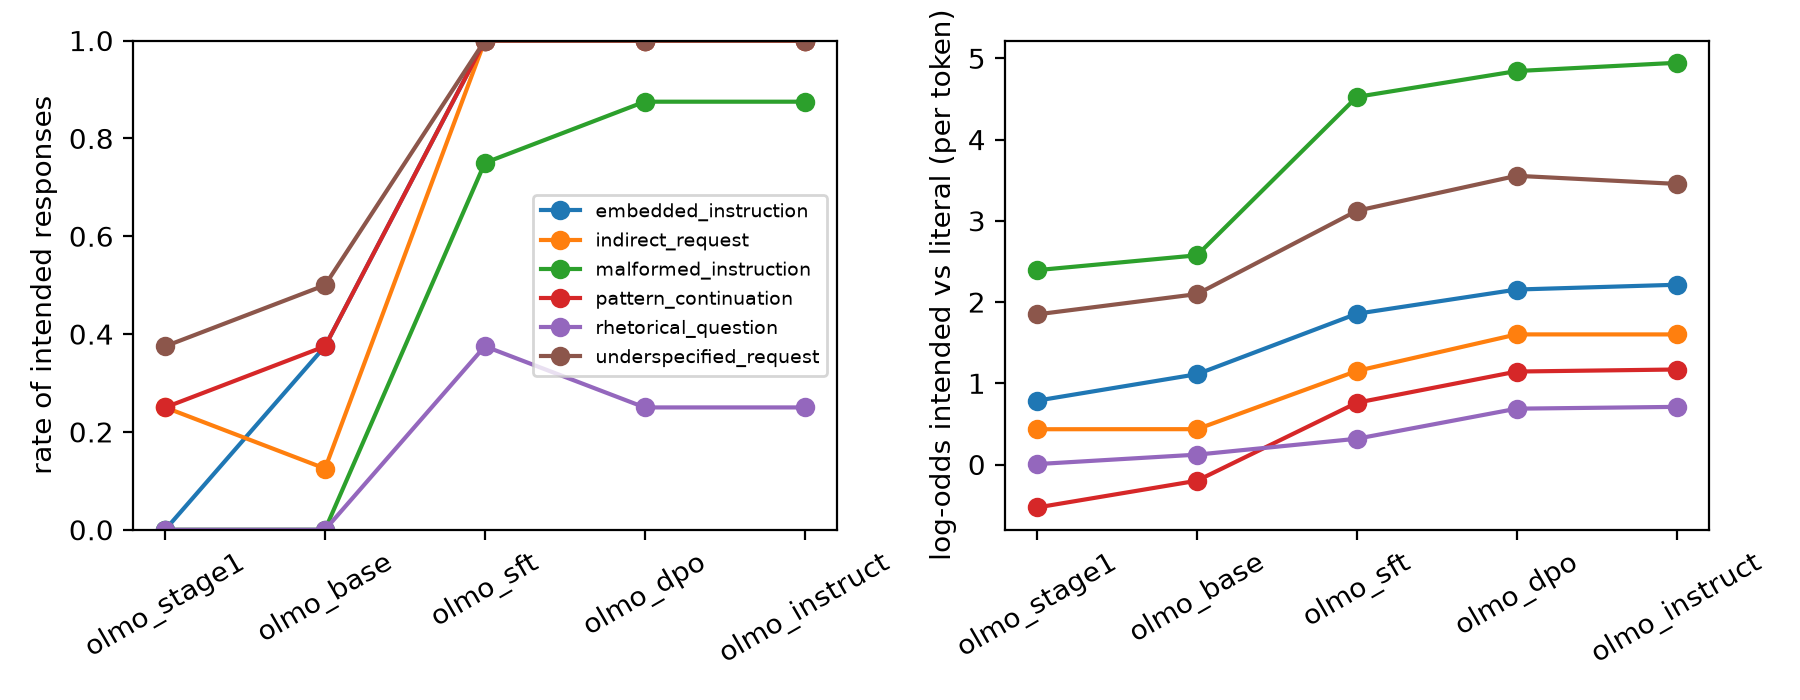
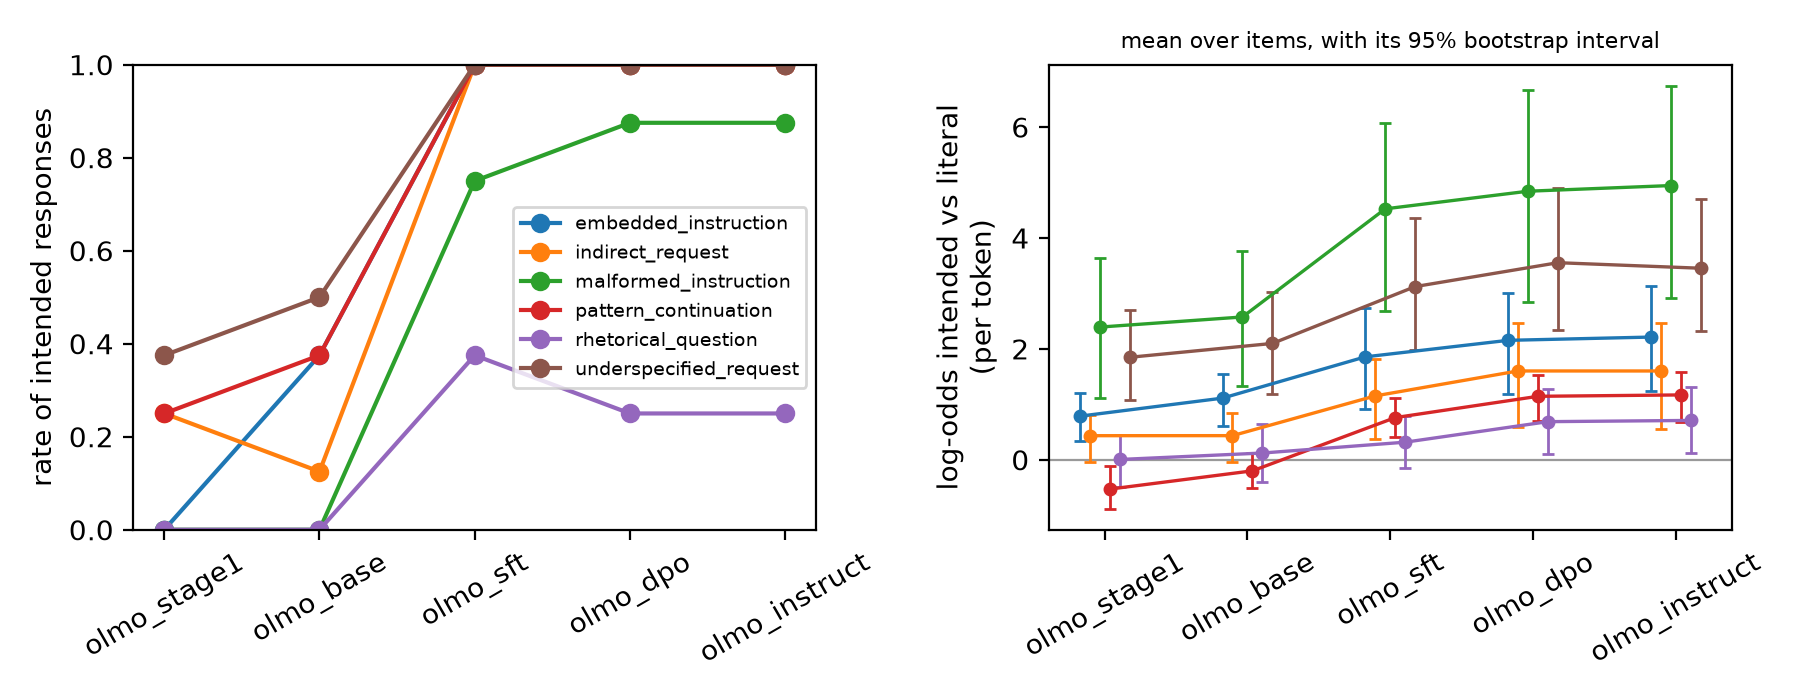
Ladder figure: Line 2 means with their bootstrap intervals
The right panel draws each mean log-odds with the `ci_low` and `ci_high`
that `logodds.csv` already held; the six categories are set slightly apart
at each model so the intervals do not hide one another, and a thin line
marks log-odds 0. No table changed.

The left panel (rate of intended responses) carries no interval, by the
author's decision: eight items per category.

`report.draw_ladder` returns the figure so that tests can read what was
drawn; `ladder_figure` saves it as before. Spec revision note and
CLAUDE.md status updated (PR #15 recorded as merged).

diff --git a/src/gricean/report.py b/src/gricean/report.py
@@ -181,25 +181,45 @@ def examples(resp_root: Path, models: list[str], item_ids: list[str], expected: 
     return "\n".join(blocks)
 
 
-def ladder_figure(intent: pd.DataFrame | None, logodds: pd.DataFrame | None, models: list[str], out: Path) -> None:
+DODGE = 0.07       # distance on the x axis between two categories at one model, in units of one model
+
+
+def draw_ladder(intent: pd.DataFrame | None, logodds: pd.DataFrame | None, models: list[str]):
+    """The two measures along the ladder, `full` version: rate of intended responses (Line 1) and mean log-odds (Line 2).
+
+    Each Line 2 mean carries the interval of its table (`ci_low`, `ci_high`); the categories are set slightly
+    apart at each model so that the intervals do not hide one another. Line 1 rates carry no interval."""
     import matplotlib
     matplotlib.use("Agg")
     import matplotlib.pyplot as plt
     fig, axes = plt.subplots(1, 2, figsize=(9, 3.5))
+    x = np.arange(len(models))
     if intent is not None:
         full_i = intent.xs("full", level="condition")
         for cat in full_i.index:
-            axes[0].plot(models, [full_i.loc[cat, (m, "intended")] for m in models], marker="o", label=cat)
+            axes[0].plot(x, [full_i.loc[cat, (m, "intended")] for m in models], marker="o", label=cat)
         axes[0].legend(fontsize=7)
     if logodds is not None:
         full_l = logodds.xs("full", level="condition")
-        for cat in full_l.index:
-            axes[1].plot(models, [full_l.loc[cat, (m, "mean")] for m in models], marker="o", label=cat)
+        axes[1].axhline(0.0, color="0.6", linewidth=0.8, zorder=0)      # no preference between the two readings
+        for k, cat in enumerate(full_l.index):
+            mean, low, high = (np.array([full_l.loc[cat, (m, col)] for m in models], dtype=float)
+                               for col in ("mean", "ci_low", "ci_high"))
+            axes[1].errorbar(x + (k - (len(full_l.index) - 1) / 2) * DODGE, mean, yerr=[mean - low, high - mean],
+                             marker="o", markersize=4, linewidth=1.2, elinewidth=1, capsize=2, label=cat)
     axes[0].set_ylabel("rate of intended responses"); axes[0].set_ylim(0, 1)
-    axes[1].set_ylabel("log-odds intended vs literal (per token)")
+    axes[1].set_ylabel("log-odds intended vs literal\n(per token)")     # two lines: one is cut on a short panel
+    axes[1].set_title("mean over items, with its 95% bootstrap interval", fontsize=8)
     for ax in axes:
+        ax.set_xticks(x, models)
         ax.tick_params(axis="x", rotation=30)
     fig.tight_layout()
+    return fig
+
+
+def ladder_figure(intent: pd.DataFrame | None, logodds: pd.DataFrame | None, models: list[str], out: Path) -> None:
+    import matplotlib.pyplot as plt
+    fig = draw_ladder(intent, logodds, models)
     Path(out).parent.mkdir(parents=True, exist_ok=True)
     fig.savefig(out, dpi=200)
     plt.close(fig)

diff --git a/tests/test_report.py b/tests/test_report.py
@@ -334,3 +334,47 @@ def test_build_skips_the_correctness_table_and_keeps_the_intent_table_when_a_row
     assert any("correctness skipped" in w for w in summary["warnings"])
     assert (tmp_path / "paper" / "intent.csv").exists()
     assert not (tmp_path / "paper" / "correctness.csv").exists()
+
+
+# --- the ladder figure: Line 2 means with their intervals ---
+
+def _intervals(ax):
+    """(x, low, high) of every interval drawn on an axis, in drawing order."""
+    from matplotlib.container import ErrorbarContainer
+    out = []
+    for c in ax.containers:
+        if isinstance(c, ErrorbarContainer):
+            out += [(seg[0][0], seg[0][1], seg[1][1]) for bars in c.lines[2] for seg in bars.get_segments()]
+    return out
+
+
+def test_ladder_figure_draws_the_interval_of_each_line2_mean(tmp_path: Path):
+    import matplotlib.pyplot as plt
+    lp_rows(tmp_path)
+    table = R.logodds_table(tmp_path, MODELS, EXPECTED)
+    fig = R.draw_ladder(None, table, MODELS)
+    drawn = _intervals(fig.axes[1])
+    plt.close(fig)
+    assert [(low, high) for _, low, high in drawn] == [
+        pytest.approx((table.loc[IR_FULL, (m, "ci_low")], table.loc[IR_FULL, (m, "ci_high")])) for m in MODELS]
+    assert drawn[0][1] < table.loc[IR_FULL, ("m_base", "mean")] < drawn[0][2]     # a real interval, around the mean
+
+
+def test_ladder_figure_sets_the_categories_apart_so_that_intervals_do_not_overlap(tmp_path: Path):
+    import matplotlib.pyplot as plt
+    lp_rows(tmp_path)
+    one = R.logodds_table(tmp_path, MODELS, EXPECTED)
+    two = pd.concat([one, one.rename(index={"indirect_request": "pattern_continuation"})])
+    fig = R.draw_ladder(None, two, MODELS)
+    xs = [x for x, _, _ in _intervals(fig.axes[1])]
+    plt.close(fig)
+    assert len(set(xs)) == 4                                    # two categories at two models: four places
+
+
+def test_ladder_figure_names_the_models_in_ladder_order_under_both_panels(tmp_path: Path):
+    import matplotlib.pyplot as plt
+    lp_rows(tmp_path)
+    fig = R.draw_ladder(R.intent_table(coded(), MODELS, EXPECTED), R.logodds_table(tmp_path, MODELS, EXPECTED), MODELS)
+    labels = [[t.get_text() for t in ax.get_xticklabels()] for ax in fig.axes]
+    plt.close(fig)
+    assert labels == [MODELS, MODELS]

diff --git a/CLAUDE.md b/CLAUDE.md
@@ -28,8 +28,8 @@ readings come apart, run through open base → SFT → DPO → Instruct checkpoi
   flagged `neither` rows block scoring until `approved: true`.
 - Commit `data/`, `stimuli/neither/`, `adapters/` so tables regenerate without models.
 
-## Current status (2026-11-19)
-- PRs #1–#14 are merged into `main` (#12, the self-run ladder, as merge commit `ed15168`; #13, the codebook and the blank sheet for coder 2, as `0d823e6`; #14, coder 2's codes and the agreement measures, as `d0d8518`). #1–#8: pipeline; pre-run gates + spec revision 2; the
+## Current status (2026-11-20)
+- PRs #1–#15 are merged into `main` (#12, the self-run ladder, as merge commit `ed15168`; #13, the codebook and the blank sheet for coder 2, as `0d823e6`; #14, coder 2's codes and the agreement measures, as `d0d8518`; #15, the correctness table, as `38eb107`). #1–#8: pipeline; pre-run gates + spec revision 2; the
   78-item stimulus set; removal of the seed dry-run data; the `neither` set and the pre-run fixes
   below; the first real run (`data/responses`, `data/logprobs`); notebooks that run from any
   folder; the Line 1 subset. #9–#11: the blank sheet, the first batch coded, per-language tables.
@@ -159,7 +159,7 @@ readings come apart, run through open base → SFT → DPO → Instruct checkpoi
 - **Kappa on `correctness`** (spec §5.1 step 16, measure fixed by the author before it was
   computed): 0.855 on the 290 rows with the same `intent` (main; 269 the same), 0.833 on all 335
   (307 the same). `coding.agreement` computes the three measures; `kappa.txt` has three lines.
-- **Correctness table** (2026-11-19, branch `correctness-table`, spec §5.1 step 17): the author
+- **Correctness table** (2026-11-19, PR #15, spec §5.1 step 17): the author
   chose its form among three before any count by model was made. For responses coded `intended`
   and for those coded `literal`, each apart: `n` and the share coded `correct`, by category,
   condition and model, per language (`paper/*/correctness{,_pt}.{csv,tex}`,
@@ -169,15 +169,19 @@ readings come apart, run through open base → SFT → DPO → Instruct checkpoi
   40/41, 38/41 on the official ladder; 2/24 (Stage 1 Alpaca), 23/37, 25/36, 28/37 (500, 2,000, all
   pairs) on the self-run ladder. `incorrect` also covers a right answer followed by run-on text
   and an English answer to a Portuguese prompt, so a low share is not only wrong information.
-- Next: nothing is owed on Line 1. Open gaps: ladder figure without CIs; `make finetune` trains
-  `full` first although smallest-first is the safer order; kappa is written per ladder folder
-  although it is one number for the whole sample.
+- **Ladder figure with Line 2 intervals** (2026-11-20, branch `ladder-intervals`): the right panel
+  draws each mean log-odds with the `ci_low` / `ci_high` of `logodds.csv`, categories set slightly
+  apart at each model (`report.draw_ladder`, `DODGE`), and a line at 0. The left panel (Line 1
+  rates) has no interval, by the author's decision: eight items per category. The intervals are
+  per model; two rungs are compared on the same items, not by overlap.
+- Next: nothing is owed. Open gaps: `make finetune` trains `full` first although smallest-first is
+  the safer order; kappa is written per ladder folder although it is one number for the whole
+  sample; no paired test of one rung against another (Line 2) or of data scale (correctness).
 - The coding page is kept (author's instruction). Its store matches `coder1.csv`.
 - Tests must not assert on the repo's own evolving state (real stimuli, `configs/models.yaml`): two
   broke that way, at the full set and at the pin. Build the fixture in `tmp_path` instead.
 - Deferred minors from review: row ids render seeds as `1.0`/`nan`; rows of deleted stimuli persist
-  until another row recomputes; responses notebook run button only does `--raw`; ladder figure omits
-  CIs; `_strip` removes every period; `pin_registry` rejects quoted `revision: "main"`; no `--hub`
+  until another row recomputes; responses notebook run button only does `--raw`; `_strip` removes every period; `pin_registry` rejects quoted `revision: "main"`; no `--hub`
   flag to bypass a stale local cache; the stripped-equals-full ablation check cannot fire alone
   while `strip_punctuation` covers `?!.`; spec §5.3 says "non-empty" where the code requires two
   words; the Qwen contrast can generate but not score.

diff --git a/docs/superpowers/specs/2026-09-26-gricean-simulation-design.md b/docs/superpowers/specs/2026-09-26-gricean-simulation-design.md
@@ -1,10 +1,20 @@
 # Design spec: computational simulation for "LLMs are Gricean machines"
 
-Date: 2026-09-26, revised 2026-11-08, amended 2026-11-11, notes added 2026-11-12, 2026-11-14, 2026-11-15 and 2026-11-16, amended 2026-11-18, note added 2026-11-19
+Date: 2026-09-26, revised 2026-11-08, amended 2026-11-11, notes added 2026-11-12, 2026-11-14, 2026-11-15 and 2026-11-16, amended 2026-11-18, notes added 2026-11-19 and 2026-11-20
 Status: revision 2 for author review
 Paper: Pádua, "LLMs are Gricean machines", Revista Texto Livre 2027 dossier
 
 ## Revision log
+
+**2026-11-20 (note): the figure draws the Line 2 intervals.** The right
+panel of the ladder figure now shows, around each mean log-odds, the
+interval that the Line 2 table already held (§5.2: 95% bootstrap over the
+items of the category). No number changed. The left panel, the rate of
+`intended` responses, carries no interval, by the author's decision: with
+eight items per category an interval on a rate would say little. Each
+interval is that of one model on its own; the comparison between two rungs
+is made on the same items and is not read from whether two intervals
+overlap.
 
 **2026-11-19 (note): `correctness` has a table.** Until now `correctness`
 was coded and reported nowhere. The author fixed the form of its table
@@ -856,7 +866,8 @@ set is frozen alongside the stimuli.
 - Table: mean log-odds and three-way shares by category × stage (Line 2).
 - Table: template control, the same Line 2 measures for SFT, DPO and
   Instruct on raw text (`logodds_template_control`).
-- Figure: both measures across the five OLMo rungs (Stage 1 → Instruct).
+- Figure: both measures across the five OLMo rungs (Stage 1 → Instruct);
+  the Line 2 means with their intervals, the Line 1 rates without.
 - Table: cue-ablation results (intended rate by version × stage).
 - Table: self-run fine-tune on Stage 1 with controls.
 - Historical anchor: the GPT-3 / InstructGPT pairs quoted from Ouyang et al.
